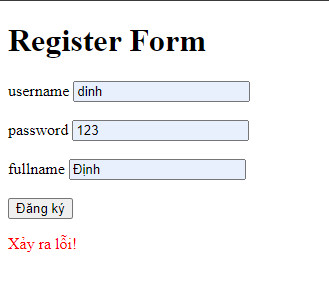
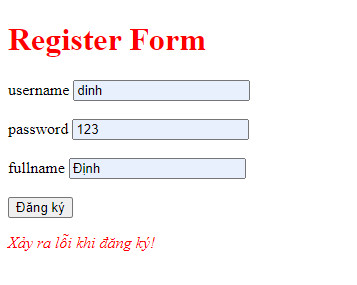
x

diff --git a/client/js/login.js b/client/js/login.js
@@ -24,6 +24,6 @@ form.addEventListener('submit', async function (e) {
         location = 'index.html?msg=2';
     } catch (error) {
         var errorElement = document.querySelector('.error');
-        errorElement.innerHTML = '<p style="color: red">Xảy ra lỗi!</p>';
+        errorElement.innerHTML = '<p style="color: red; font-style: italic">Xảy ra lỗi khi đăng nhập!</p>';
     }
 })

diff --git a/client/js/register.js b/client/js/register.js
@@ -22,6 +22,6 @@ form.addEventListener('submit', async function (e) {
         location = 'index.html?msg=1';
     } catch (error) {
         var errorElement = document.querySelector('.error');
-        errorElement.innerHTML = '<p style="color: red">Xảy ra lỗi!</p>';
+        errorElement.innerHTML = '<p style="color: red; font-style: italic">Xảy ra lỗi khi đăng ký!</p>';
     }
 })

diff --git a/client/register.html b/client/register.html
@@ -6,6 +6,7 @@
     <meta http-equiv="X-UA-Compatible" content="IE=edge">
     <meta name="viewport" content="width=device-width, initial-scale=1.0">
     <title>Register</title>
+    <link rel="stylesheet" href="css/style.css">
 </head>
 
 <body>

diff --git a/client/login.html b/client/login.html
@@ -6,6 +6,7 @@
     <meta http-equiv="X-UA-Compatible" content="IE=edge">
     <meta name="viewport" content="width=device-width, initial-scale=1.0">
     <title>Login</title>
+    <link rel="stylesheet" href="css/style.css">
 </head>
 
 <body>

diff --git a/client/js/main.js b/client/js/main.js
@@ -25,6 +25,7 @@ async function getData() {
 
     } catch (err) {
         console.log('Lỗi ' + err);
+        table.innerHTML = '<p style="color: red; font-style: italic">Xảy ra lỗi khi lấy dữ liệu!</p>';
     }
 }
 
